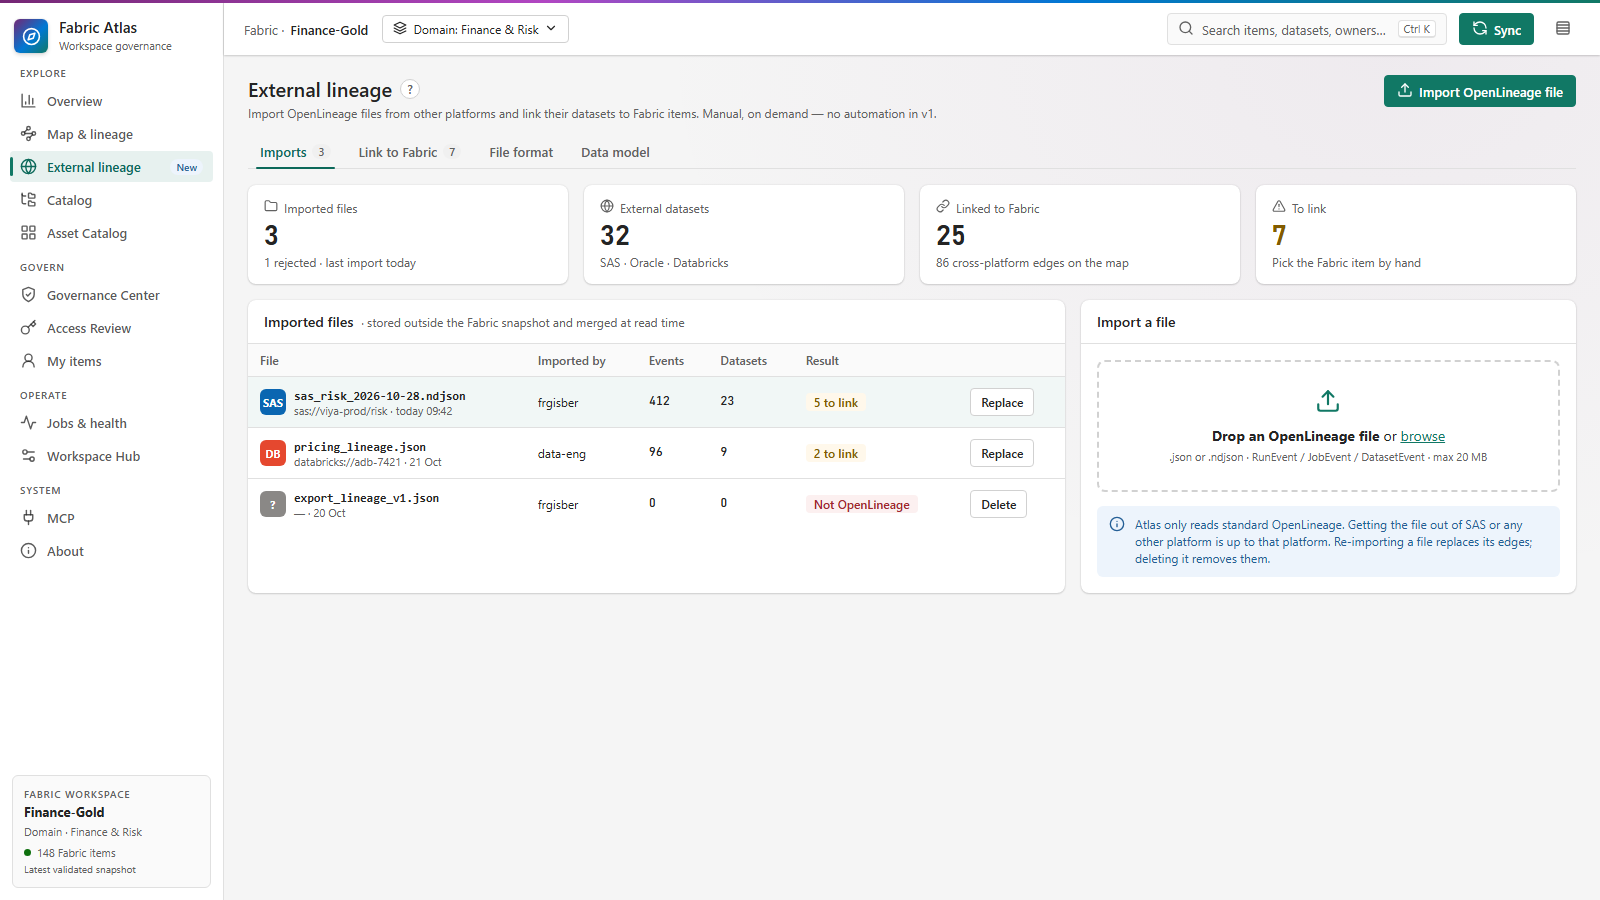
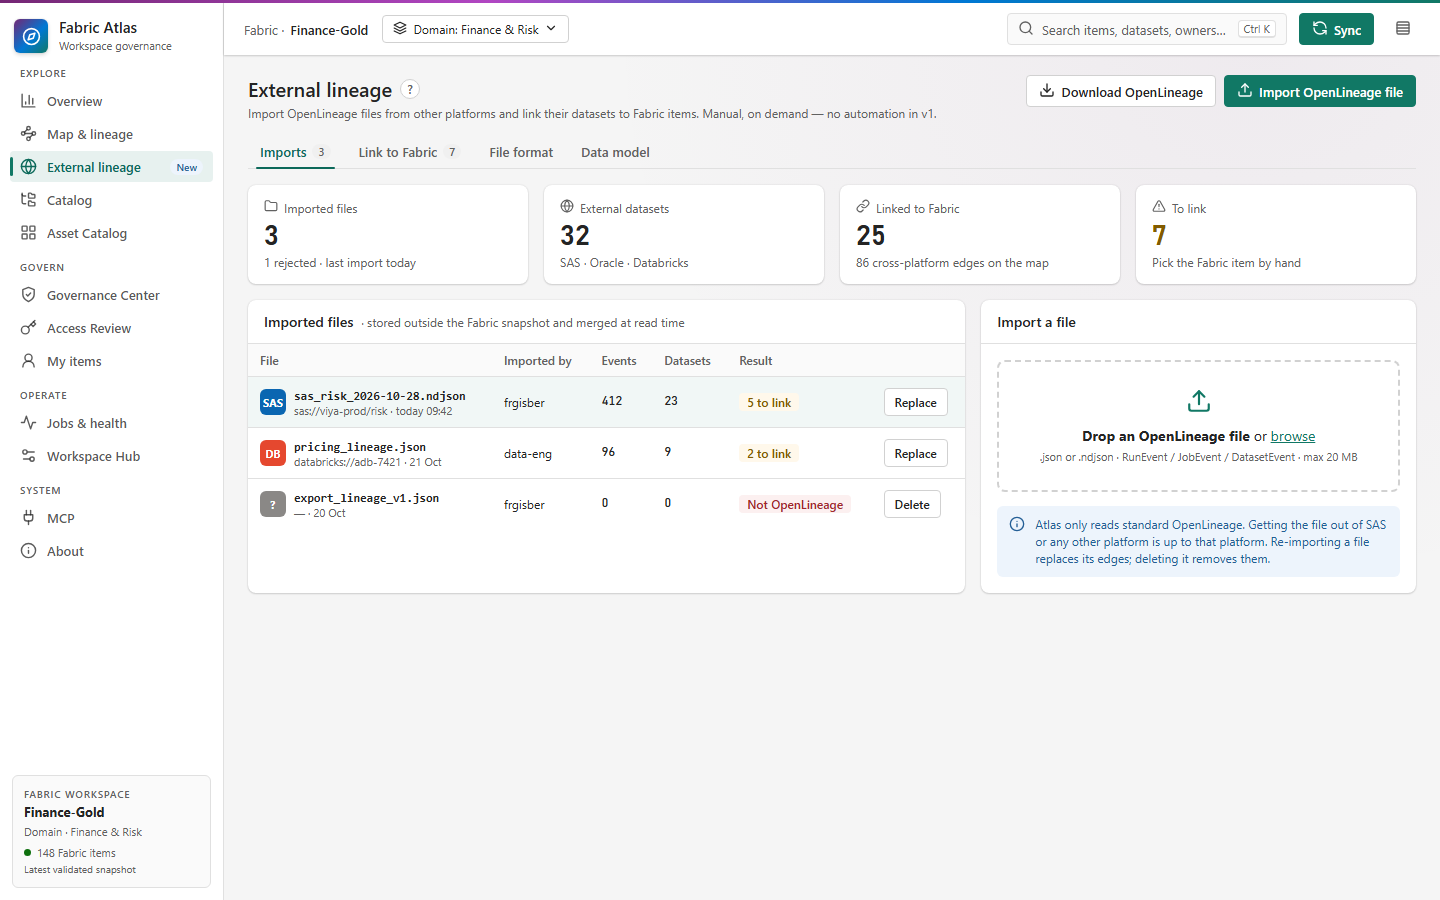
mockups(v2.7): add Download OpenLineage export to external lineage mock
Copilot-Session: e629d3ec-786d-448e-9c22-e8e2cc1d7b80

diff --git a/v2.7/external-lineage/mock.html b/v2.7/external-lineage/mock.html
@@ -170,7 +170,7 @@ tr.sel td{background:rgba(17,120,101,.06)}
   <section class="scr" data-s="1">
     <div class="ph"><div><h1>External lineage <span class="help">?</span></h1>
       <div class="obj">Import OpenLineage files from other platforms and link their datasets to Fabric items. Manual, on demand — no automation in v1.</div></div>
-      <div class="toolbar"><span class="btn primary" id="imp"><span data-i="upload" data-s="16"></span>Import OpenLineage file</span></div></div>
+      <div class="toolbar"><span class="btn" id="dl"><span data-i="download" data-s="16"></span>Download OpenLineage</span><span class="btn primary" id="imp"><span data-i="upload" data-s="16"></span>Import OpenLineage file</span></div></div>
     <div class="tabs"><span class="tab on">Imports <span class="c">3</span></span><span class="tab">Link to Fabric <span class="c">7</span></span><span class="tab">File format</span><span class="tab">Data model</span></div>
 
     <div class="grid" style="grid-template-columns:repeat(4,1fr);margin-bottom:16px">
@@ -244,7 +244,7 @@ tr.sel td{background:rgba(17,120,101,.06)}
   <section class="scr" data-s="3">
     <div class="ph"><div><h1>Map &amp; lineage <span class="help">?</span></h1>
       <div class="obj">Item lineage across workspaces — now including external platforms reported through OpenLineage.</div></div>
-      <div class="toolbar"><span class="chip" style="background:#fff;border-color:rgba(0,120,212,.4);color:var(--ext)"><span class="toggle" style="background:var(--ext)"></span><b>External lineage</b></span><span class="seg"><span>Item</span><span class="on">Cross-platform</span><span>Columns</span></span><span class="btn"><span data-i="target" data-s="16"></span>Impact analysis</span></div></div>
+      <div class="toolbar"><span class="chip" style="background:#fff;border-color:rgba(0,120,212,.4);color:var(--ext)"><span class="toggle" style="background:var(--ext)"></span><b>External lineage</b></span><span class="seg"><span>Item</span><span class="on">Cross-platform</span><span>Columns</span></span><span class="btn"><span data-i="target" data-s="16"></span>Impact analysis</span><span class="btn"><span data-i="download" data-s="16"></span>Download OpenLineage</span></div></div>
     <div class="tabs"><span class="tab">Map</span><span class="tab on">Lineage</span><span class="tab">Evidence</span></div>
     <div class="mapwrap">
       <div class="map" id="map">
@@ -328,7 +328,7 @@ tr.sel td{background:rgba(17,120,101,.06)}
             <tr><td class="mono s12">eventType · eventTime · runId</td><td class="s12">Last run shown on the edge</td></tr>
           </table>
           <div class="note" style="background:var(--w-bg);color:var(--w-fg);margin-top:14px"><span data-i="alert" data-s="16"></span><div>Ignored and never stored: SQL text, source code, data samples, credentials and any other facet.</div></div>
-          <div class="note" style="background:var(--i-bg);color:var(--i-fg);margin-top:10px"><span data-i="info" data-s="16"></span><div>Later versions: automatic ingestion, Spark runtime events (#86) and OpenLineage export (#19).</div></div>
+          <div class="note" style="background:var(--i-bg);color:var(--i-fg);margin-top:10px"><span data-i="info" data-s="16"></span><div>Export: <b>Download OpenLineage</b> writes the Fabric lineage as an NDJSON file (one COMPLETE RunEvent per job, OneLake <span class="mono">abfss://</span> dataset names) that any OpenLineage tool can read. Later versions: automatic ingestion and Spark runtime events (#86).</div></div>
         </div>
       </div>
     </div>
@@ -346,6 +346,19 @@ tr.sel td{background:rgba(17,120,101,.06)}
   </div>
 </main>
 </div>
+
+  <!-- ============ DOWNLOAD DIALOG (s1 + s3) ============ -->
+  <div id="dlg" style="display:none;position:fixed;inset:0;background:rgba(0,0,0,.32);z-index:50;align-items:center;justify-content:center">
+    <div class="card" style="width:460px;padding:20px;box-shadow:0 12px 40px rgba(0,0,0,.25)">
+      <div class="card-h" style="padding:0 0 12px"><span data-i="download" data-s="16"></span><h3>Download OpenLineage</h3></div>
+      <div class="s12" style="color:var(--muted-fg);margin-bottom:14px">Writes the Fabric lineage as standard OpenLineage events (NDJSON). No data, SQL or credentials — only item, table and job names.</div>
+      <div class="s12" style="font-weight:600;margin-bottom:6px">Scope</div>
+      <label style="display:flex;gap:8px;align-items:center;padding:8px 10px;border:2px solid var(--primary);border-radius:6px;margin-bottom:6px"><span style="width:14px;height:14px;border-radius:50%;border:4px solid var(--primary)"></span>Current workspace <span class="s12" style="margin-left:auto;color:var(--muted-fg)">14 items · 22 edges</span></label>
+      <label style="display:flex;gap:8px;align-items:center;padding:8px 10px;border:1px solid var(--border);border-radius:6px;margin-bottom:12px"><span style="width:14px;height:14px;border-radius:50%;border:1px solid var(--input)"></span>Selection on the map <span class="s12" style="margin-left:auto;color:var(--muted-fg)">focused item + neighbours</span></label>
+      <label style="display:flex;gap:8px;align-items:center;margin-bottom:16px"><input type="checkbox" checked> Include linked external datasets <span class="s12" style="color:var(--muted-fg)">(25)</span></label>
+      <div style="display:flex;gap:8px;justify-content:flex-end"><span class="btn" id="dlc">Cancel</span><span class="btn primary" id="dlo"><span data-i="download" data-s="16"></span>Download .ndjson</span></div>
+    </div>
+  </div>
 
 <script>
 const P={
@@ -448,6 +461,8 @@ document.querySelectorAll('.btn').forEach(b=>{const t=b.textContent.trim();
   if(t==='Link'&&b.classList.contains('primary'))b.onclick=()=>{b.textContent='✓ Linked';b.style.background='#0e700e'};
   if(t==='Link'&&b.classList.contains('sm'))b.onclick=e=>{e.stopPropagation();b.closest('tr').click()};
   if(t==='Import OpenLineage file')b.onclick=()=>{const d=document.getElementById('drop');d.style.borderColor='var(--primary)';d.style.background='var(--i-bg)';d.animate([{transform:'scale(1)'},{transform:'scale(1.02)'},{transform:'scale(1)'}],{duration:300})};
+  if(t==='Download OpenLineage')b.onclick=()=>{document.getElementById('dlg').style.display='flex'};
+  if(t==='Cancel'||t==='Download .ndjson')b.onclick=()=>{document.getElementById('dlg').style.display='none'};
   if(t==='Impact analysis')b.onclick=()=>document.querySelectorAll('.node:not(.ext)').forEach(n=>n.style.outline=n.classList.contains('focus')?'':'2px solid rgba(17,120,101,.35)');});
 /* imported files -> link */
 if(s===1)document.querySelectorAll('[data-s="1"] table')[0].querySelectorAll('tr').forEach((r,i)=>{if(i)r.onclick=()=>go(2)});
@@ -478,6 +493,8 @@ if(s===3){
     const ext=n.classList.contains('ext');const pill=document.querySelector('.panel .ext-pill');pill.textContent=ext?'OpenLineage · external':'Fabric item';
     pill.style.borderColor=ext?'var(--ext)':'var(--primary)';pill.style.color=ext?'var(--ext)':'var(--primary)'}});
 }
+
+if(new URLSearchParams(location.search).get('dlg'))document.getElementById('dlg').style.display='flex';
 
 if(s===5){
   const T=[
